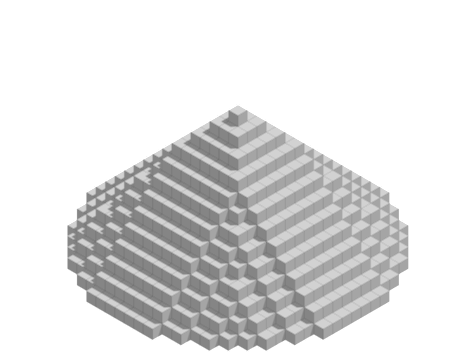
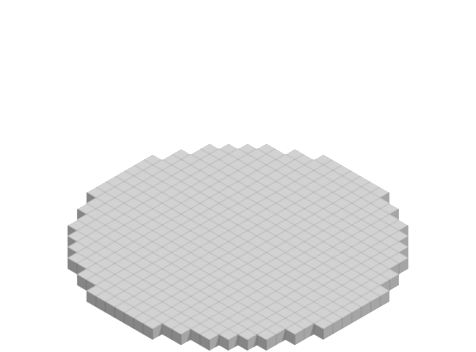
Documentation

Changed region(s): [[0.1471, 0.2812, 0.8529, 0.9688]]

diff --git a/README.md b/README.md
@@ -35,19 +35,15 @@ xs sy [c] [count]
 xs sz [c] [count]
 ```
 
+<img src="/img/slice.png?raw=true" alt="" width="238" /><img src="/img/slice_sx_19_1.png?raw=true" alt="" width="238" /><img src="/img/slice_sy_15_1.png?raw=true" alt="" width="238" />
+
 The slice shaders removes one or more segments from the x, y or z axis. All other rows are shuffled to full the available space. The first argument `c` is the coordinate of the segment you wish to remove and `count` is the number of rows. Note that `count` is optional and defaults to `1`.
 
 For example, in the first image, segments are removed with these commands:
 
 ```
-xs sx 16 2
-xs sy 20 2
-```
-
-In the second image, segments are removed with this command:
-
-```
-xs sz 2
+xs sx 19 1
+xs sy 15 1
 ```
 
 <h3 id="pyramid_shader">Pyramid</h3>
@@ -57,18 +53,26 @@ xs py [index]
 xs py2 [index]
 ```
 
+<img src="/img/py1.png?raw=true" alt="" width="238" /><img src="/img/py2.png?raw=true" alt="" width="238" />
+
+<img src="/img/py3.png?raw=true" alt="" width="238" /><img src="/img/py4.png?raw=true" alt="" width="238" />
+
+<img src="/img/py5.png?raw=true" alt="" width="238" /><img src="/img/py6.png?raw=true" alt="" width="238" />
+
 The `py` and `py2` shaders add a layer of voxel on top of voxels matching the selected colour. A voxel is only added when the voxel beneath has adjacent voxels, creating the effect of a pyramid.
 
 `py` will only add voxels when the adjacent voxels match the selected color. Whereas, `py2` will add voxels if there are adjacent voxels of any color.
 
 If provided, `index` will be the color index of the added voxels. This argument is optional. If ommitted (or set to `0`) the selected color index is used instead. 
 
-Each time the shader is executed, a single layer is added. To add multiple layers at once, you can run the command in a loop.
+Each time the shader is executed, a single layer is added. To add multiple layers at once, you can run the command in a loop as shown below:
 
 ```
 xs -n 50 py
 xs -n 50 py2
 ```
+
+<img src="/img/py1.png?raw=true" alt="" width="238" /><img src="/img/py7.png?raw=true" alt="" width="238" />
 
 If neither axis modes (or both X and Y) are set, the shader will form a square pyramid. If either X or Y modes are set, the shader will form a triangle pyramid instead, with the slope facing the X or Y axes respectively.
 
@@ -79,14 +83,15 @@ xs sand [index] [add]
 xs sand2 [index] [add]
 ```
 
+<img src="/img/sand1.png?raw=true" alt="" width="238" /><img src="/img/sand2.png?raw=true" alt="" width="238" />
+
 The `sand` and `sand2` shaders add a layer voxels on top of voxels matching the selected colour. Voxels are added randomly and only added when the voxel beneath has adjacent voxels, creating the effect of a rough sand pile. The number of adjacent neighbours affects the randomness, with a higher number of neighbours increasing the odds a voxel will be added.
 
 If provided, `index` will be the color index of the added voxels. This argument is optional. If ommitted (or set to `0`) the selected color index is used instead.
 
 `add` can be used to increase the odds of adding voxels. Numbers between `0.01` and `0.4` have the best effect. Because `add` is the second argument, you can set `index` to `0` if using `add` in a loop.
 
-Each time the shader is executed, a single layer is added. To add multiple layers at once, you can run the command in a loop as shown below.
-
+Each time the shader is executed, a single layer is added. To add multiple layers at once, you can run the command in a loop as shown below:
 
 ```
 xs -n 50 sand
